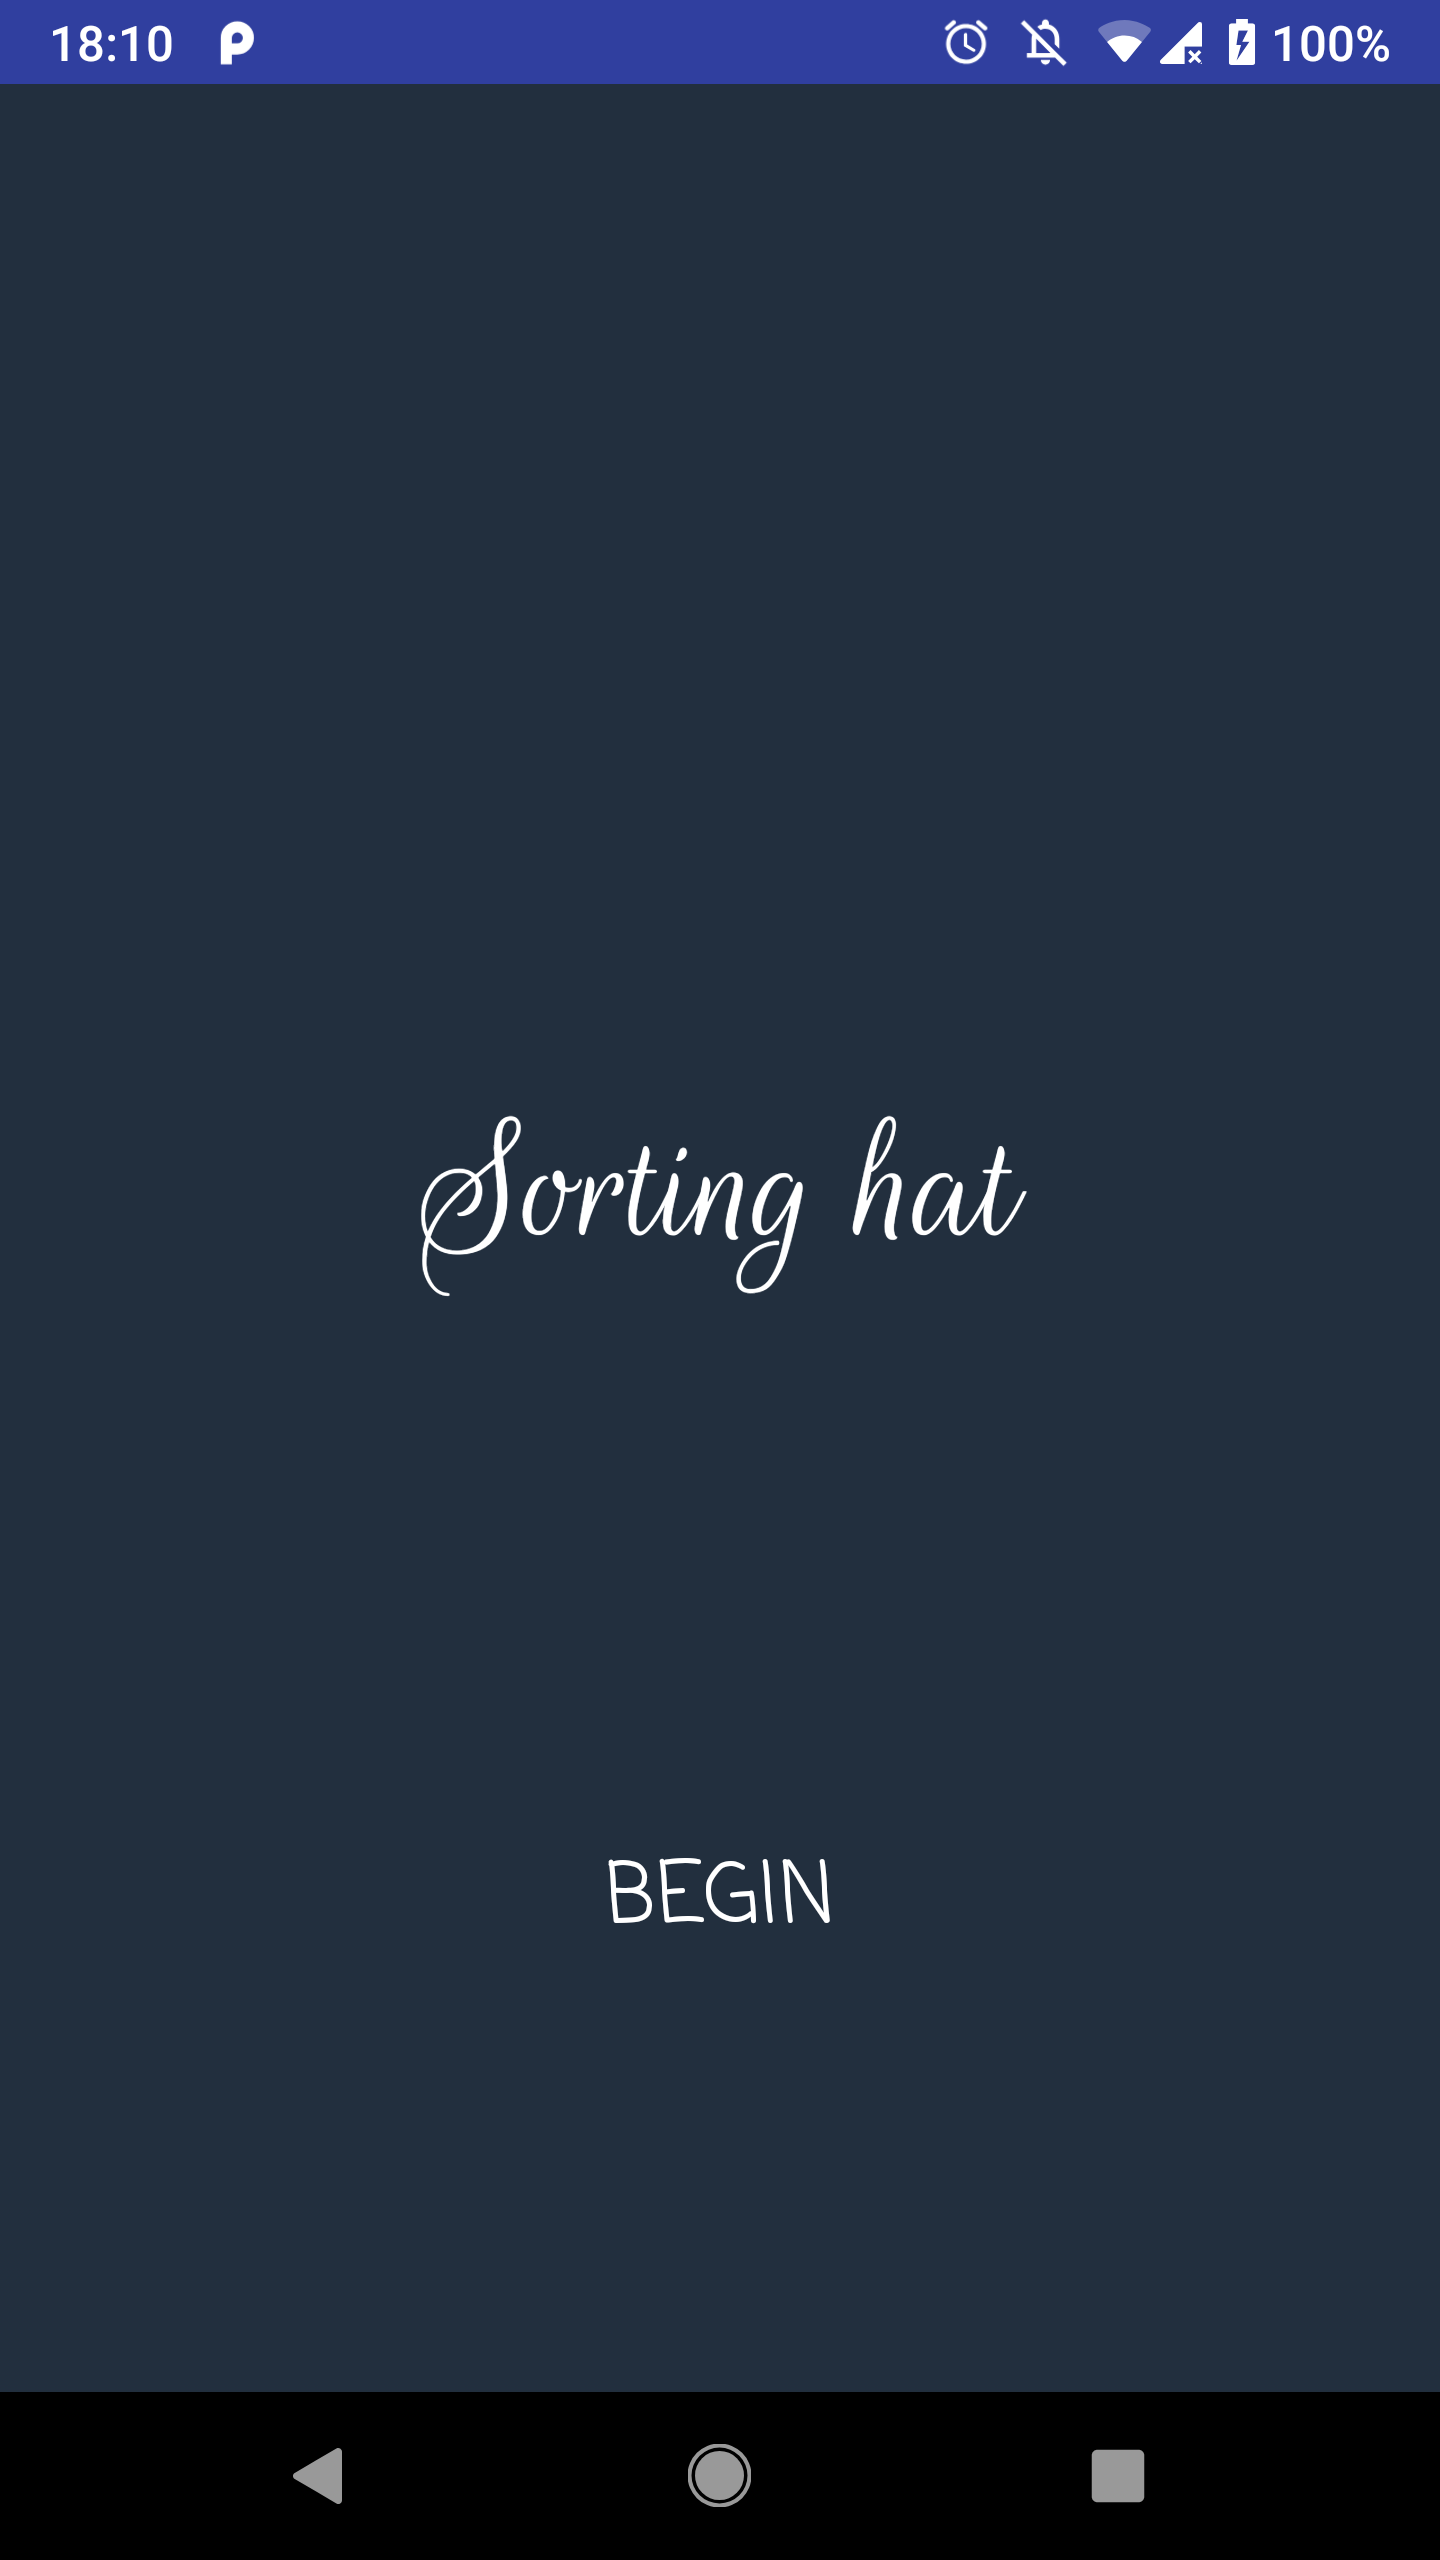
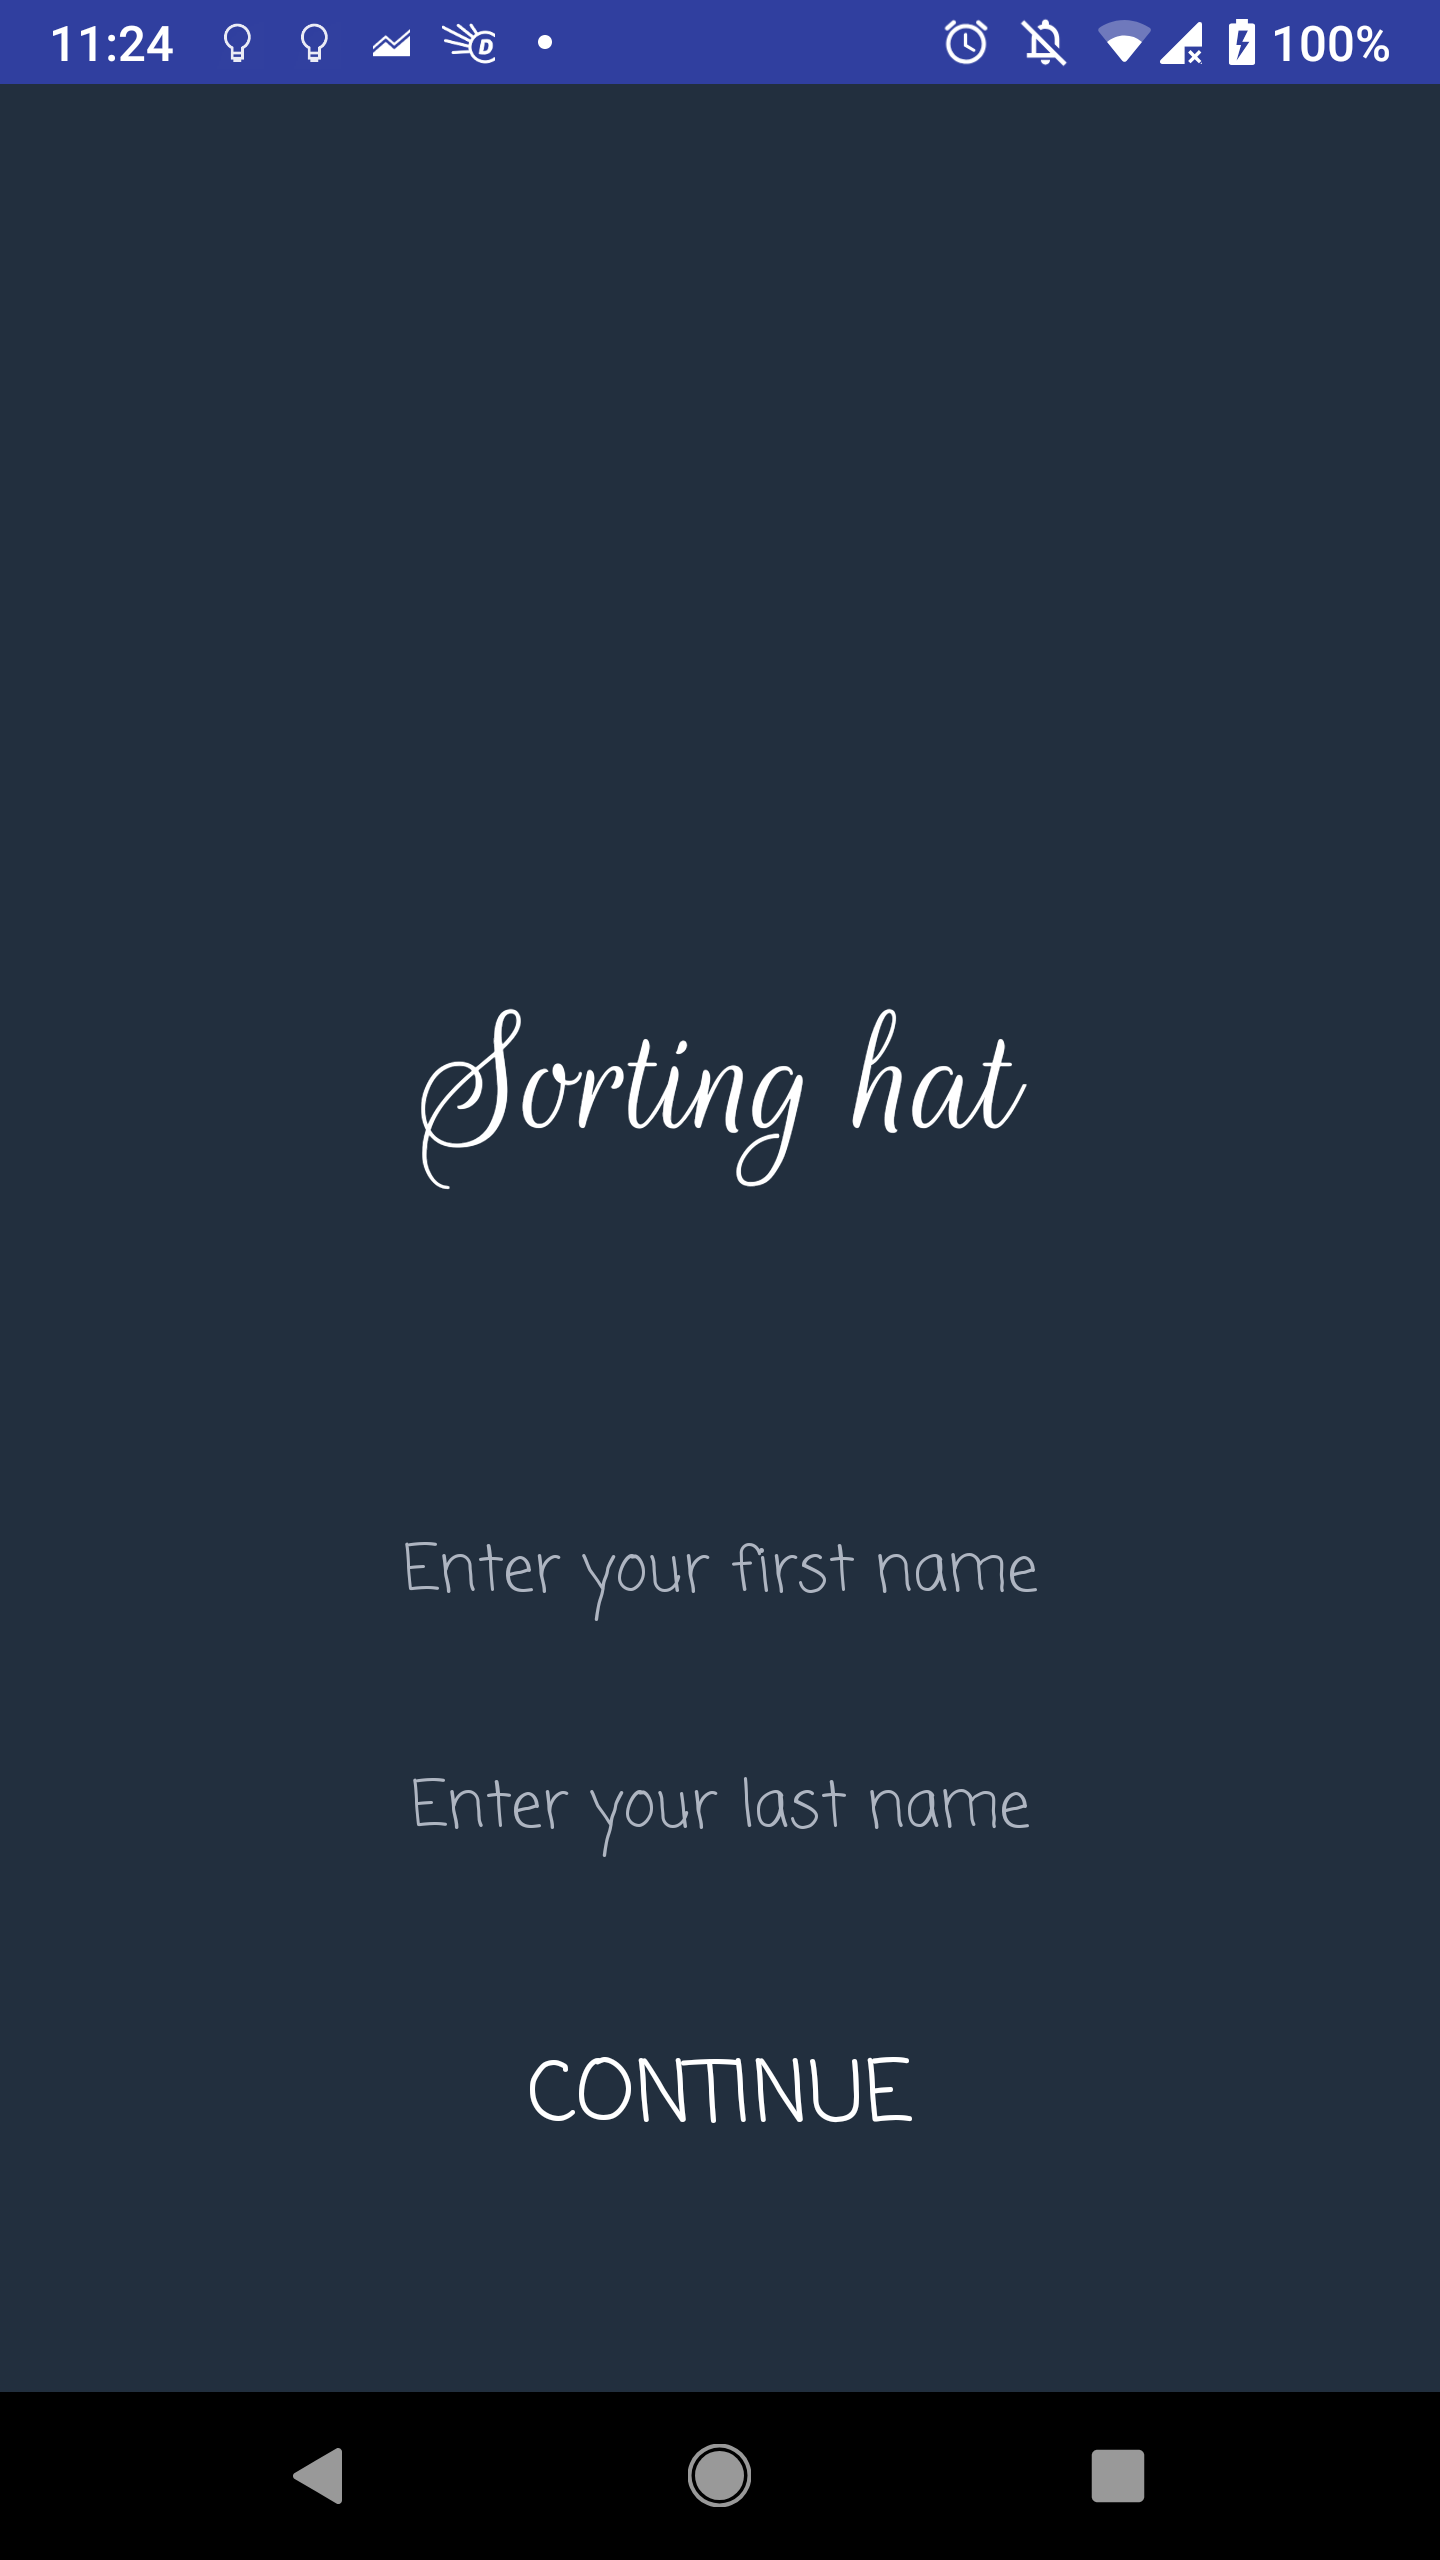
Handling first names longer than one word

diff --git a/app/src/main/java/com/presentedbykaran/sortinghat/InstructionsActivity.java b/app/src/main/java/com/presentedbykaran/sortinghat/InstructionsActivity.java
@@ -20,11 +20,9 @@ public class InstructionsActivity extends AppCompatActivity {
         setContentView(R.layout.activity_instructions);
 
         Intent intent = getIntent();
-        String name = intent.getStringExtra("name");
-        Log.d(TAG, "name: " + name);
+        String[] fullName = intent.getStringArrayExtra("fullName");
         txtName = findViewById(R.id.txtFullName);
-//        txtName.setText(name);
-        splitName(name);
+        splitName(fullName);
 
         button = findViewById(R.id.btnSort);
         button.setOnClickListener(new View.OnClickListener() {
@@ -36,13 +34,8 @@ public class InstructionsActivity extends AppCompatActivity {
         });
     }
 
-    // Only works if the witch/wizard's first name is one word and their second name is one word
-    // Would be better to request the first and second name separately to handle first names that
-    // are 2 or more words long
-    private void splitName(String name) {
-        String[] split = name.split(" ");
-//        for (String s : split) Log.d(TAG, "split: " + s);
-        String formattedName = split[1] + ", " + split[0];
-        txtName.setText(formattedName);
+    private void splitName(String[] fullName) {
+        String name = fullName[1] + ", " + fullName[0];
+        txtName.setText(name);
     }
 }

diff --git a/app/src/main/java/com/presentedbykaran/sortinghat/MainActivity.java b/app/src/main/java/com/presentedbykaran/sortinghat/MainActivity.java
@@ -12,6 +12,7 @@ public class MainActivity extends AppCompatActivity {
 
     private Button btnBegin;
     private EditText editTextFst;
+    private EditText editTextSnd;
     public static final String TAG = MainActivity.class.getSimpleName();
     private MusicController mMusicController;
 
@@ -23,6 +24,7 @@ public class MainActivity extends AppCompatActivity {
         createBackgroundMusic();
 
         editTextFst = findViewById(R.id.txtFstName);
+        editTextSnd = findViewById(R.id.txtSndName);
 
         btnBegin = findViewById(R.id.btnBegin);
         btnBegin.setOnClickListener(new View.OnClickListener() {
@@ -59,11 +61,10 @@ public class MainActivity extends AppCompatActivity {
     private void startQuiz() {
         stopMusic();
 
-        String name = editTextFst.getText().toString();
-//        Log.d(TAG, "name :" + name);
+        String[] fullName = {editTextFst.getText().toString(), editTextSnd.getText().toString()};
 
         Intent intent = new Intent(this, InstructionsActivity.class);
-        intent.putExtra("name", name);
+        intent.putExtra("fullName", fullName);
         startActivity(intent);
     }
 }
